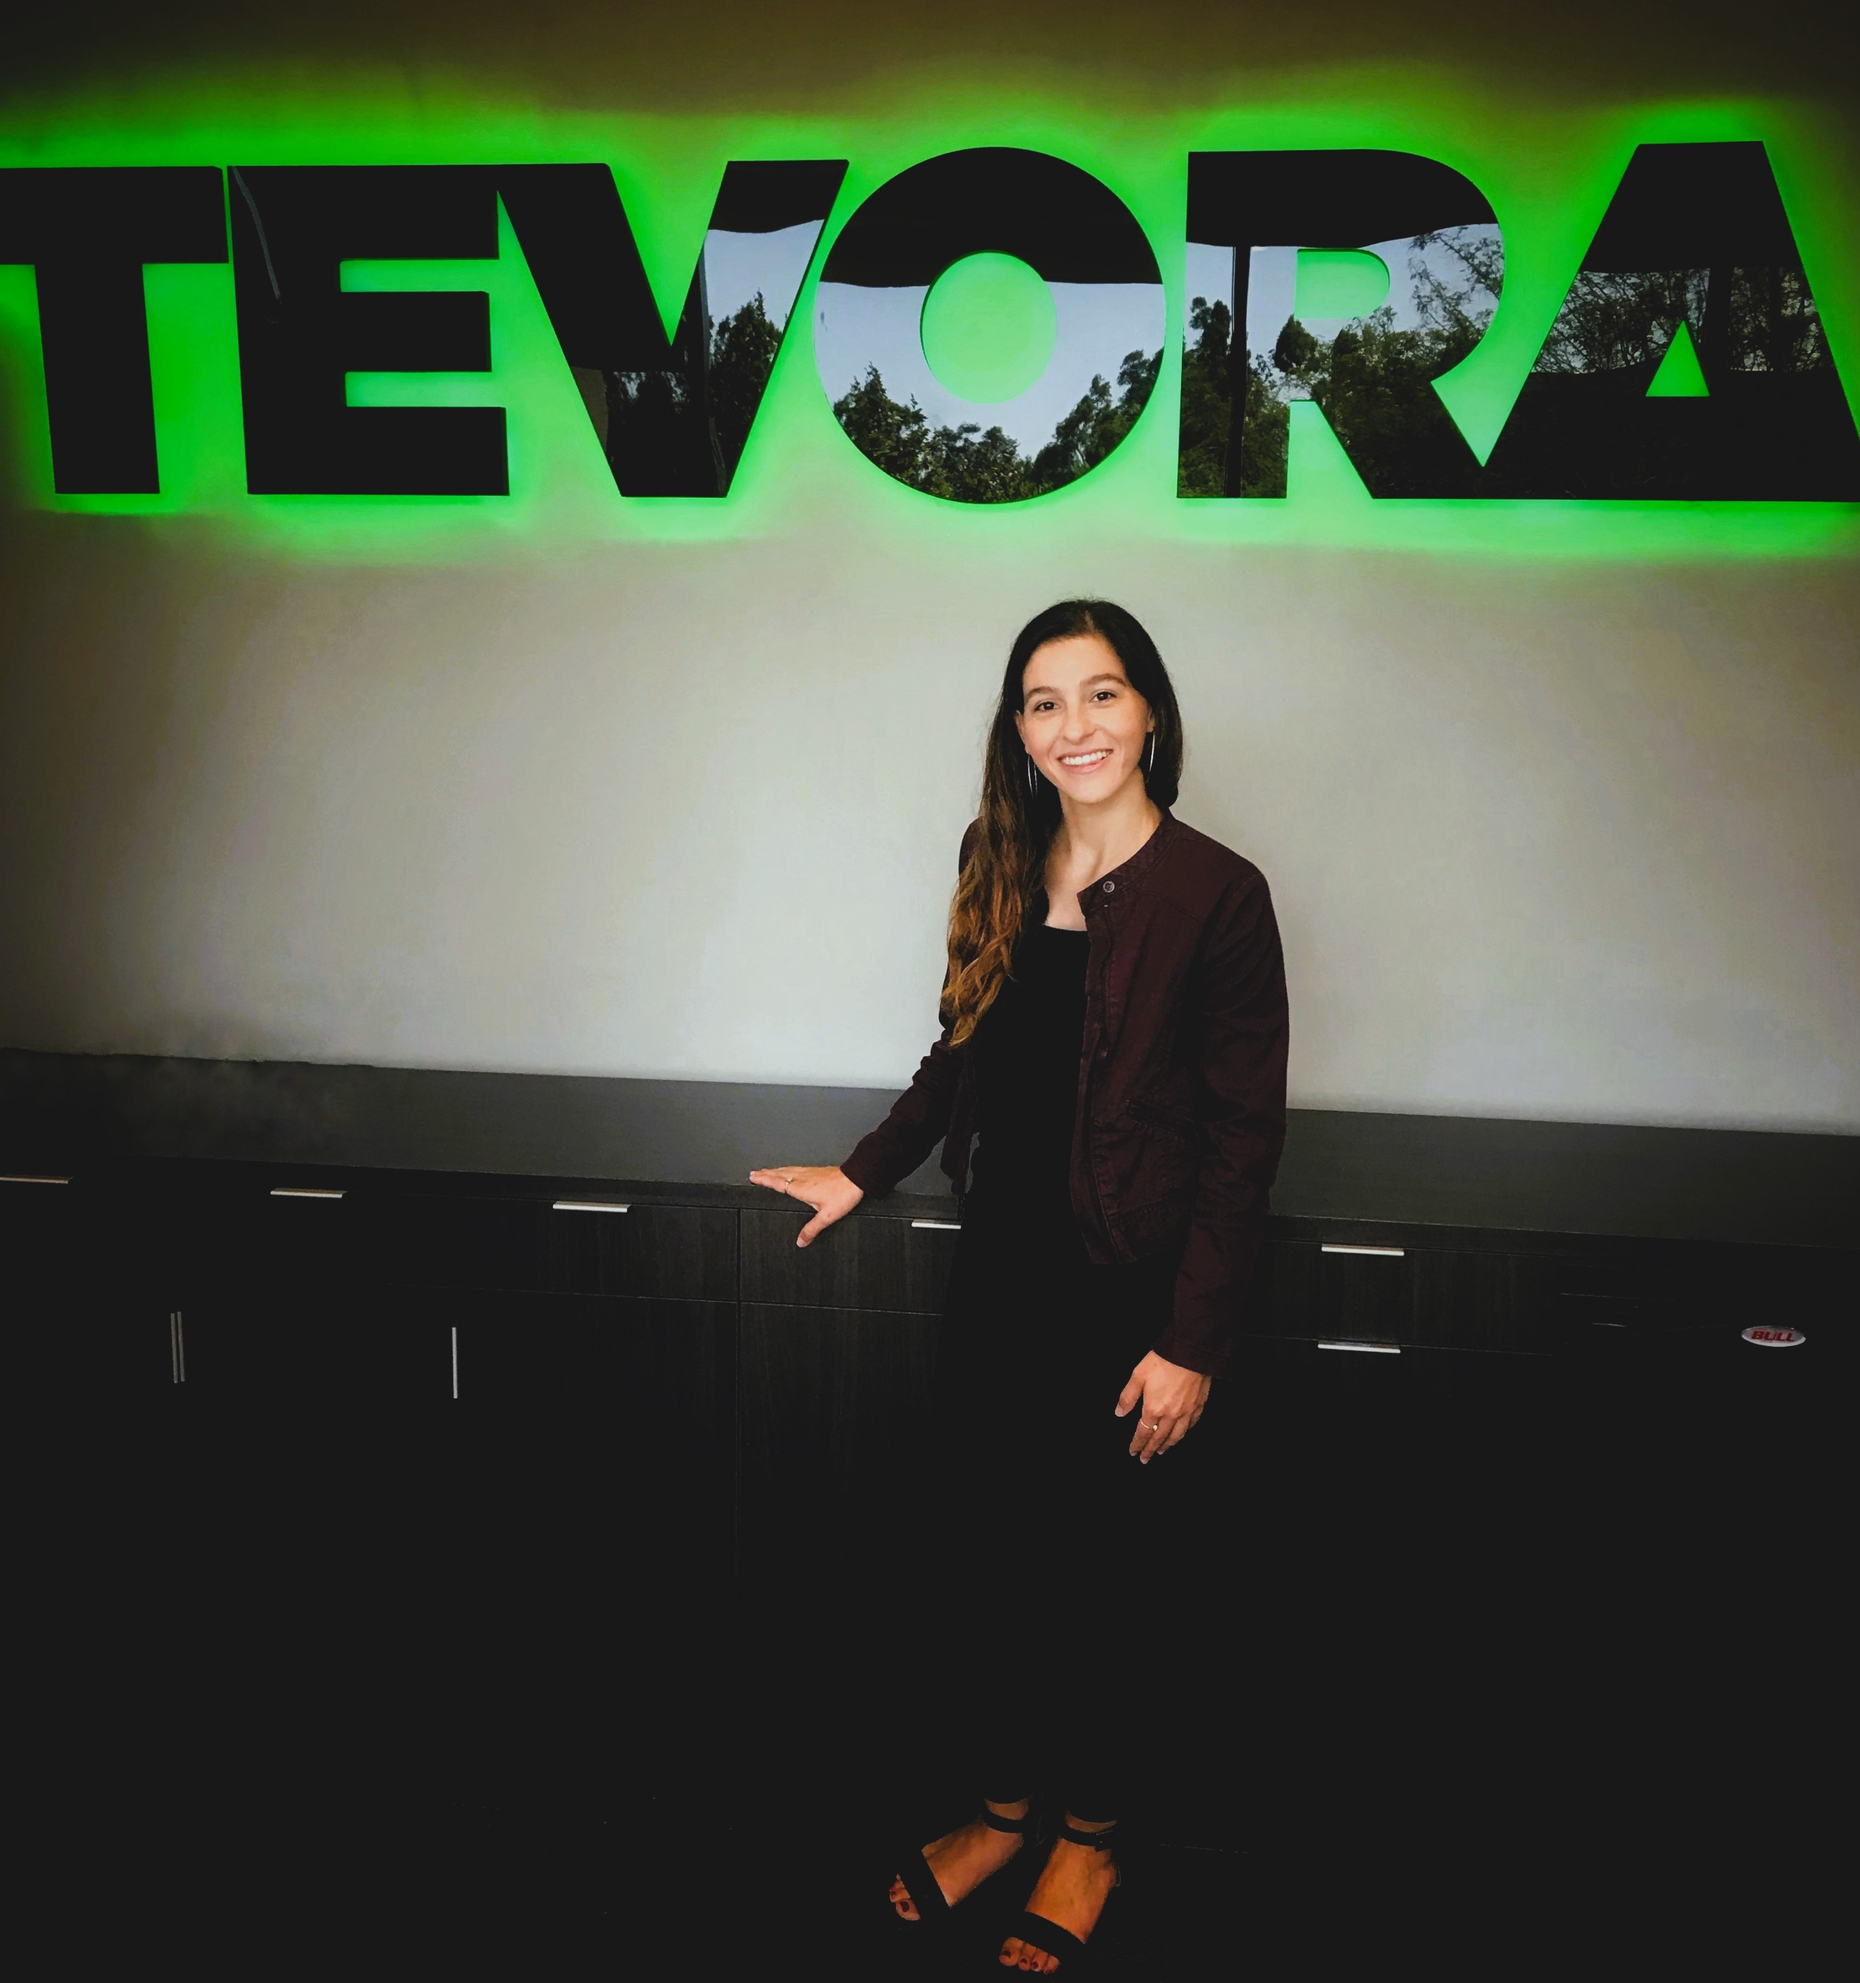
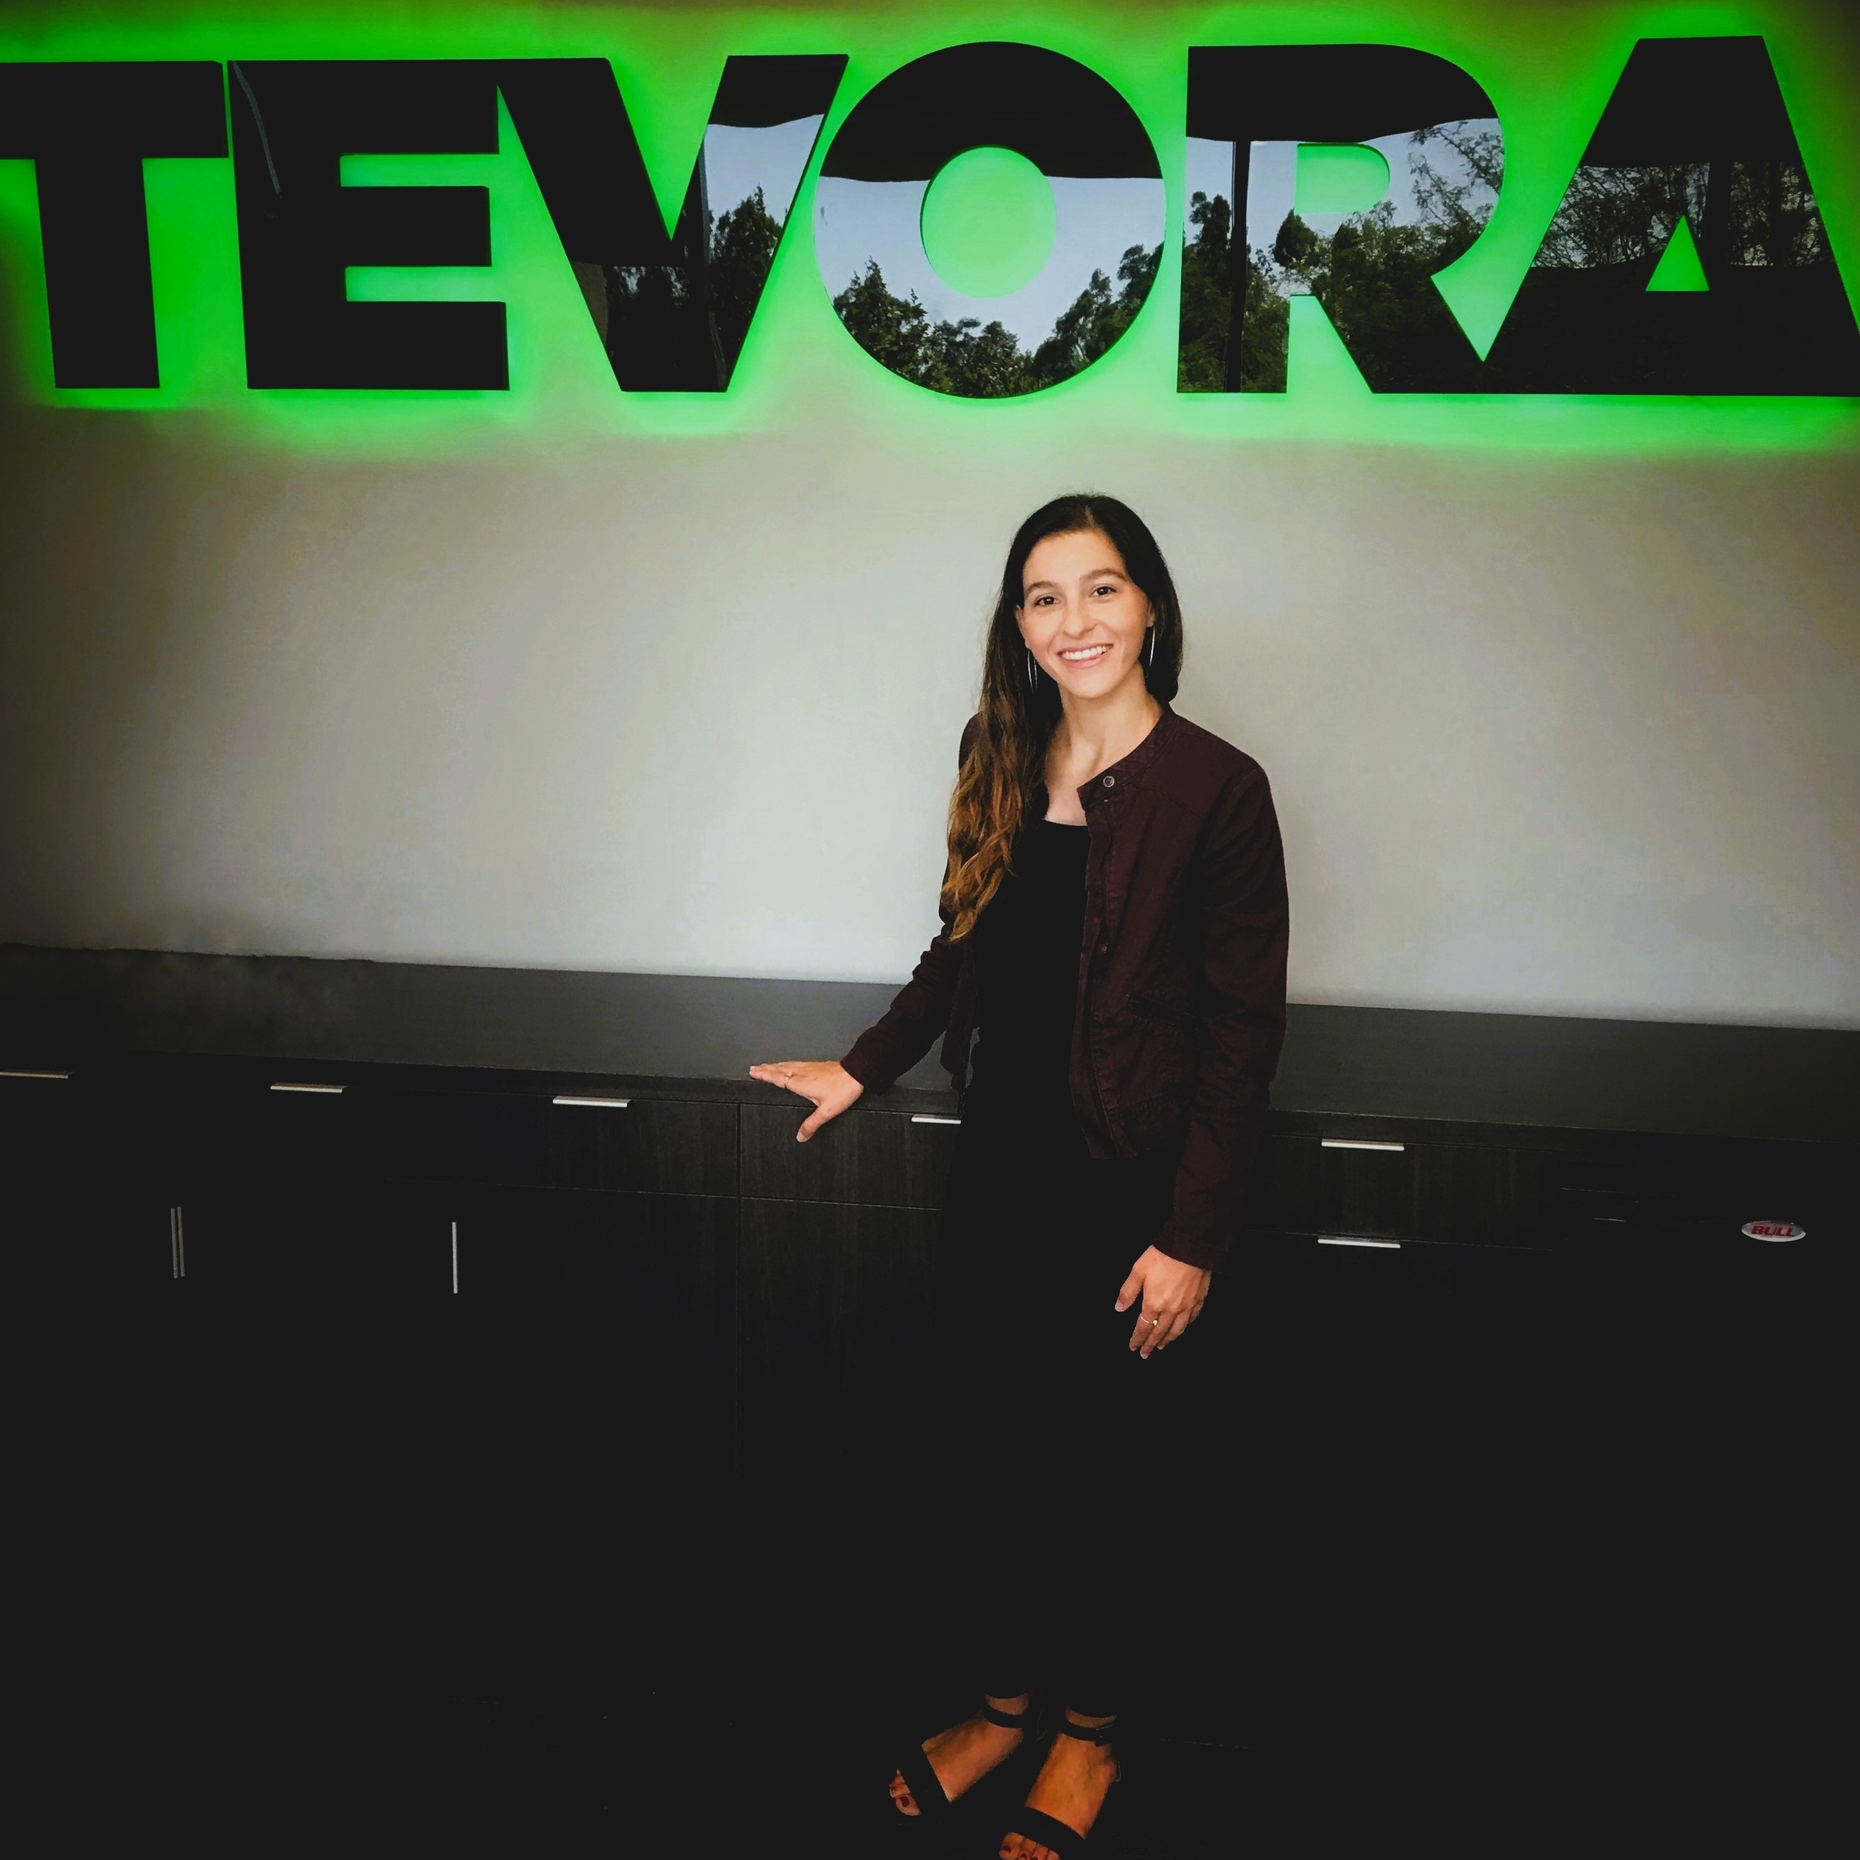
updated photos

diff --git a/style.css b/style.css
@@ -120,7 +120,7 @@ and to center it on the page*/
 /*This is the id to change the picture size and add a border*/
 #pic{
   width: 550px;
-  height: 600px;
+  height: 680px;
   border: 8px solid rgb(41, 21, 40);
   border-radius: 12px;
 }
